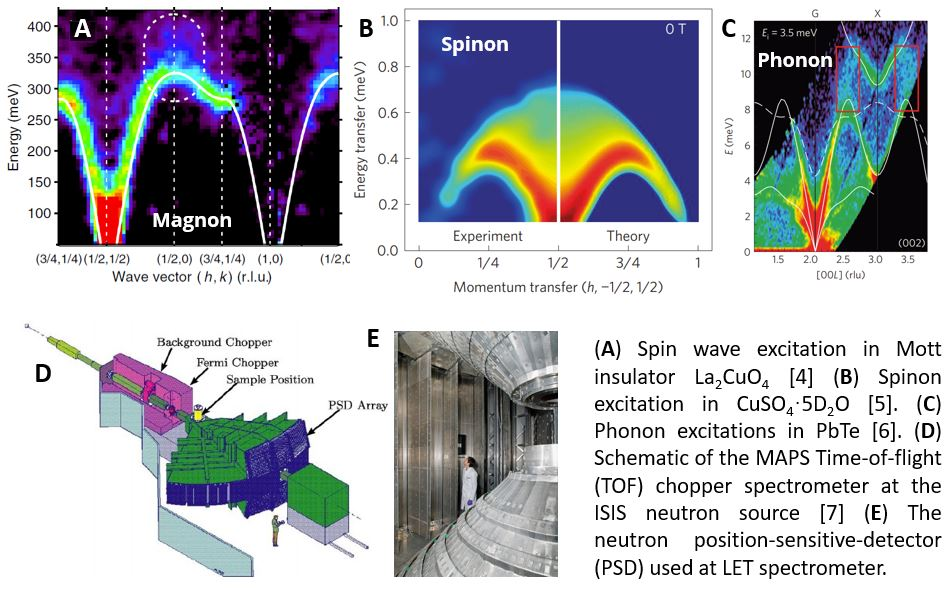
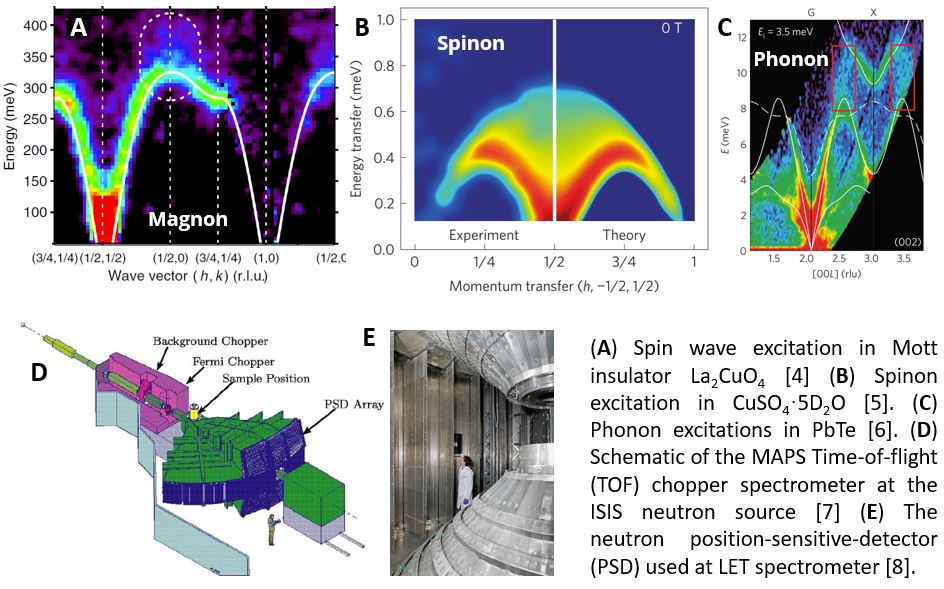
update research page

diff --git a/_pages/research.md b/_pages/research.md
@@ -41,8 +41,10 @@ We perform X-ray and neutron scattering/spectroscopy experiments at large-scale 
         <hr>
         <p><small>References<br>
         [4] N. S. Headings et al., Phys. Rev. Lett. 105, 247001 (2010).<br>
-        [5] O. Delaire et al., Nat. Matter. 10, 614 (2011).<br>
-        [6] I. Bustinduy et al., Rev. Sci. Instrum. 78, 043901 (2007).
+        [5] M. Mourigal et al., Nat. Phys. 9, 435 (2013).<br>
+        [6] O. Delaire et al., Nat. Matter. 10, 614 (2011).<br>
+        [7] I. Bustinduy et al., Rev. Sci. Instrum. 78, 043901 (2007).<br>
+        [8] R. I. Bewley et al., Nucl. Instrum. Methods Phys. Res. A 637, 128 (2011).
         </small></p>
         </div>
         <div class="research-tech-pic">
